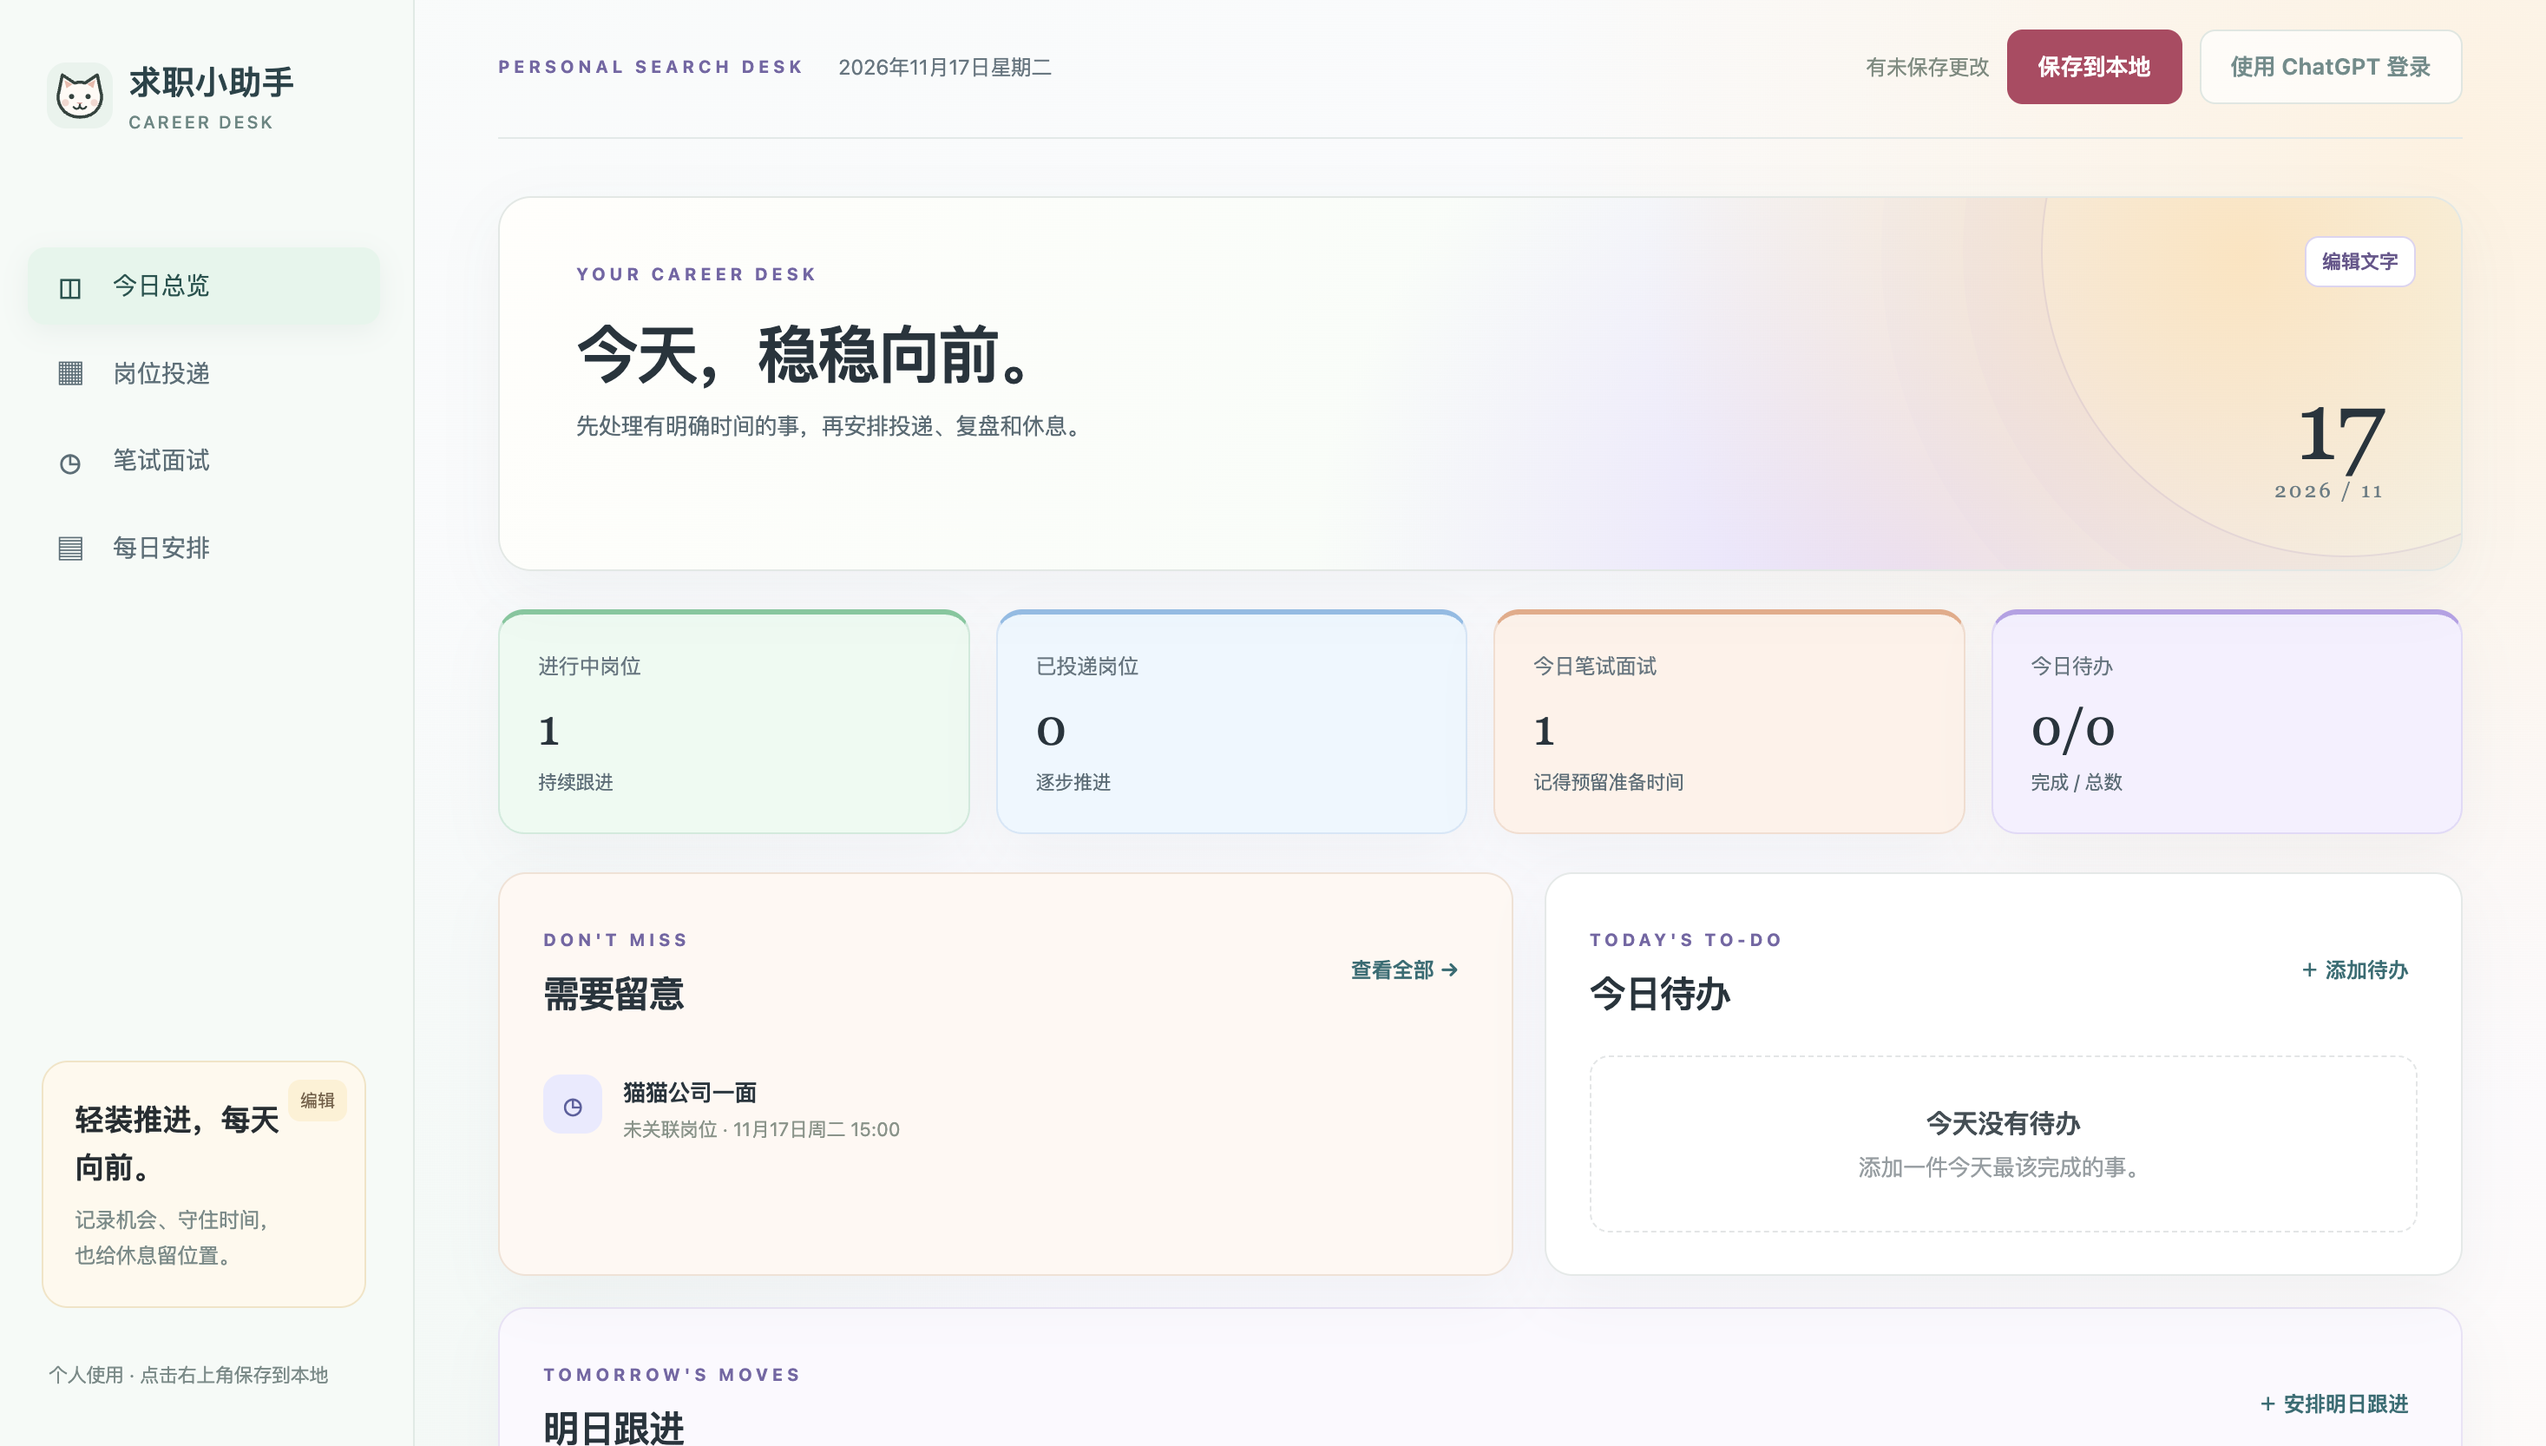
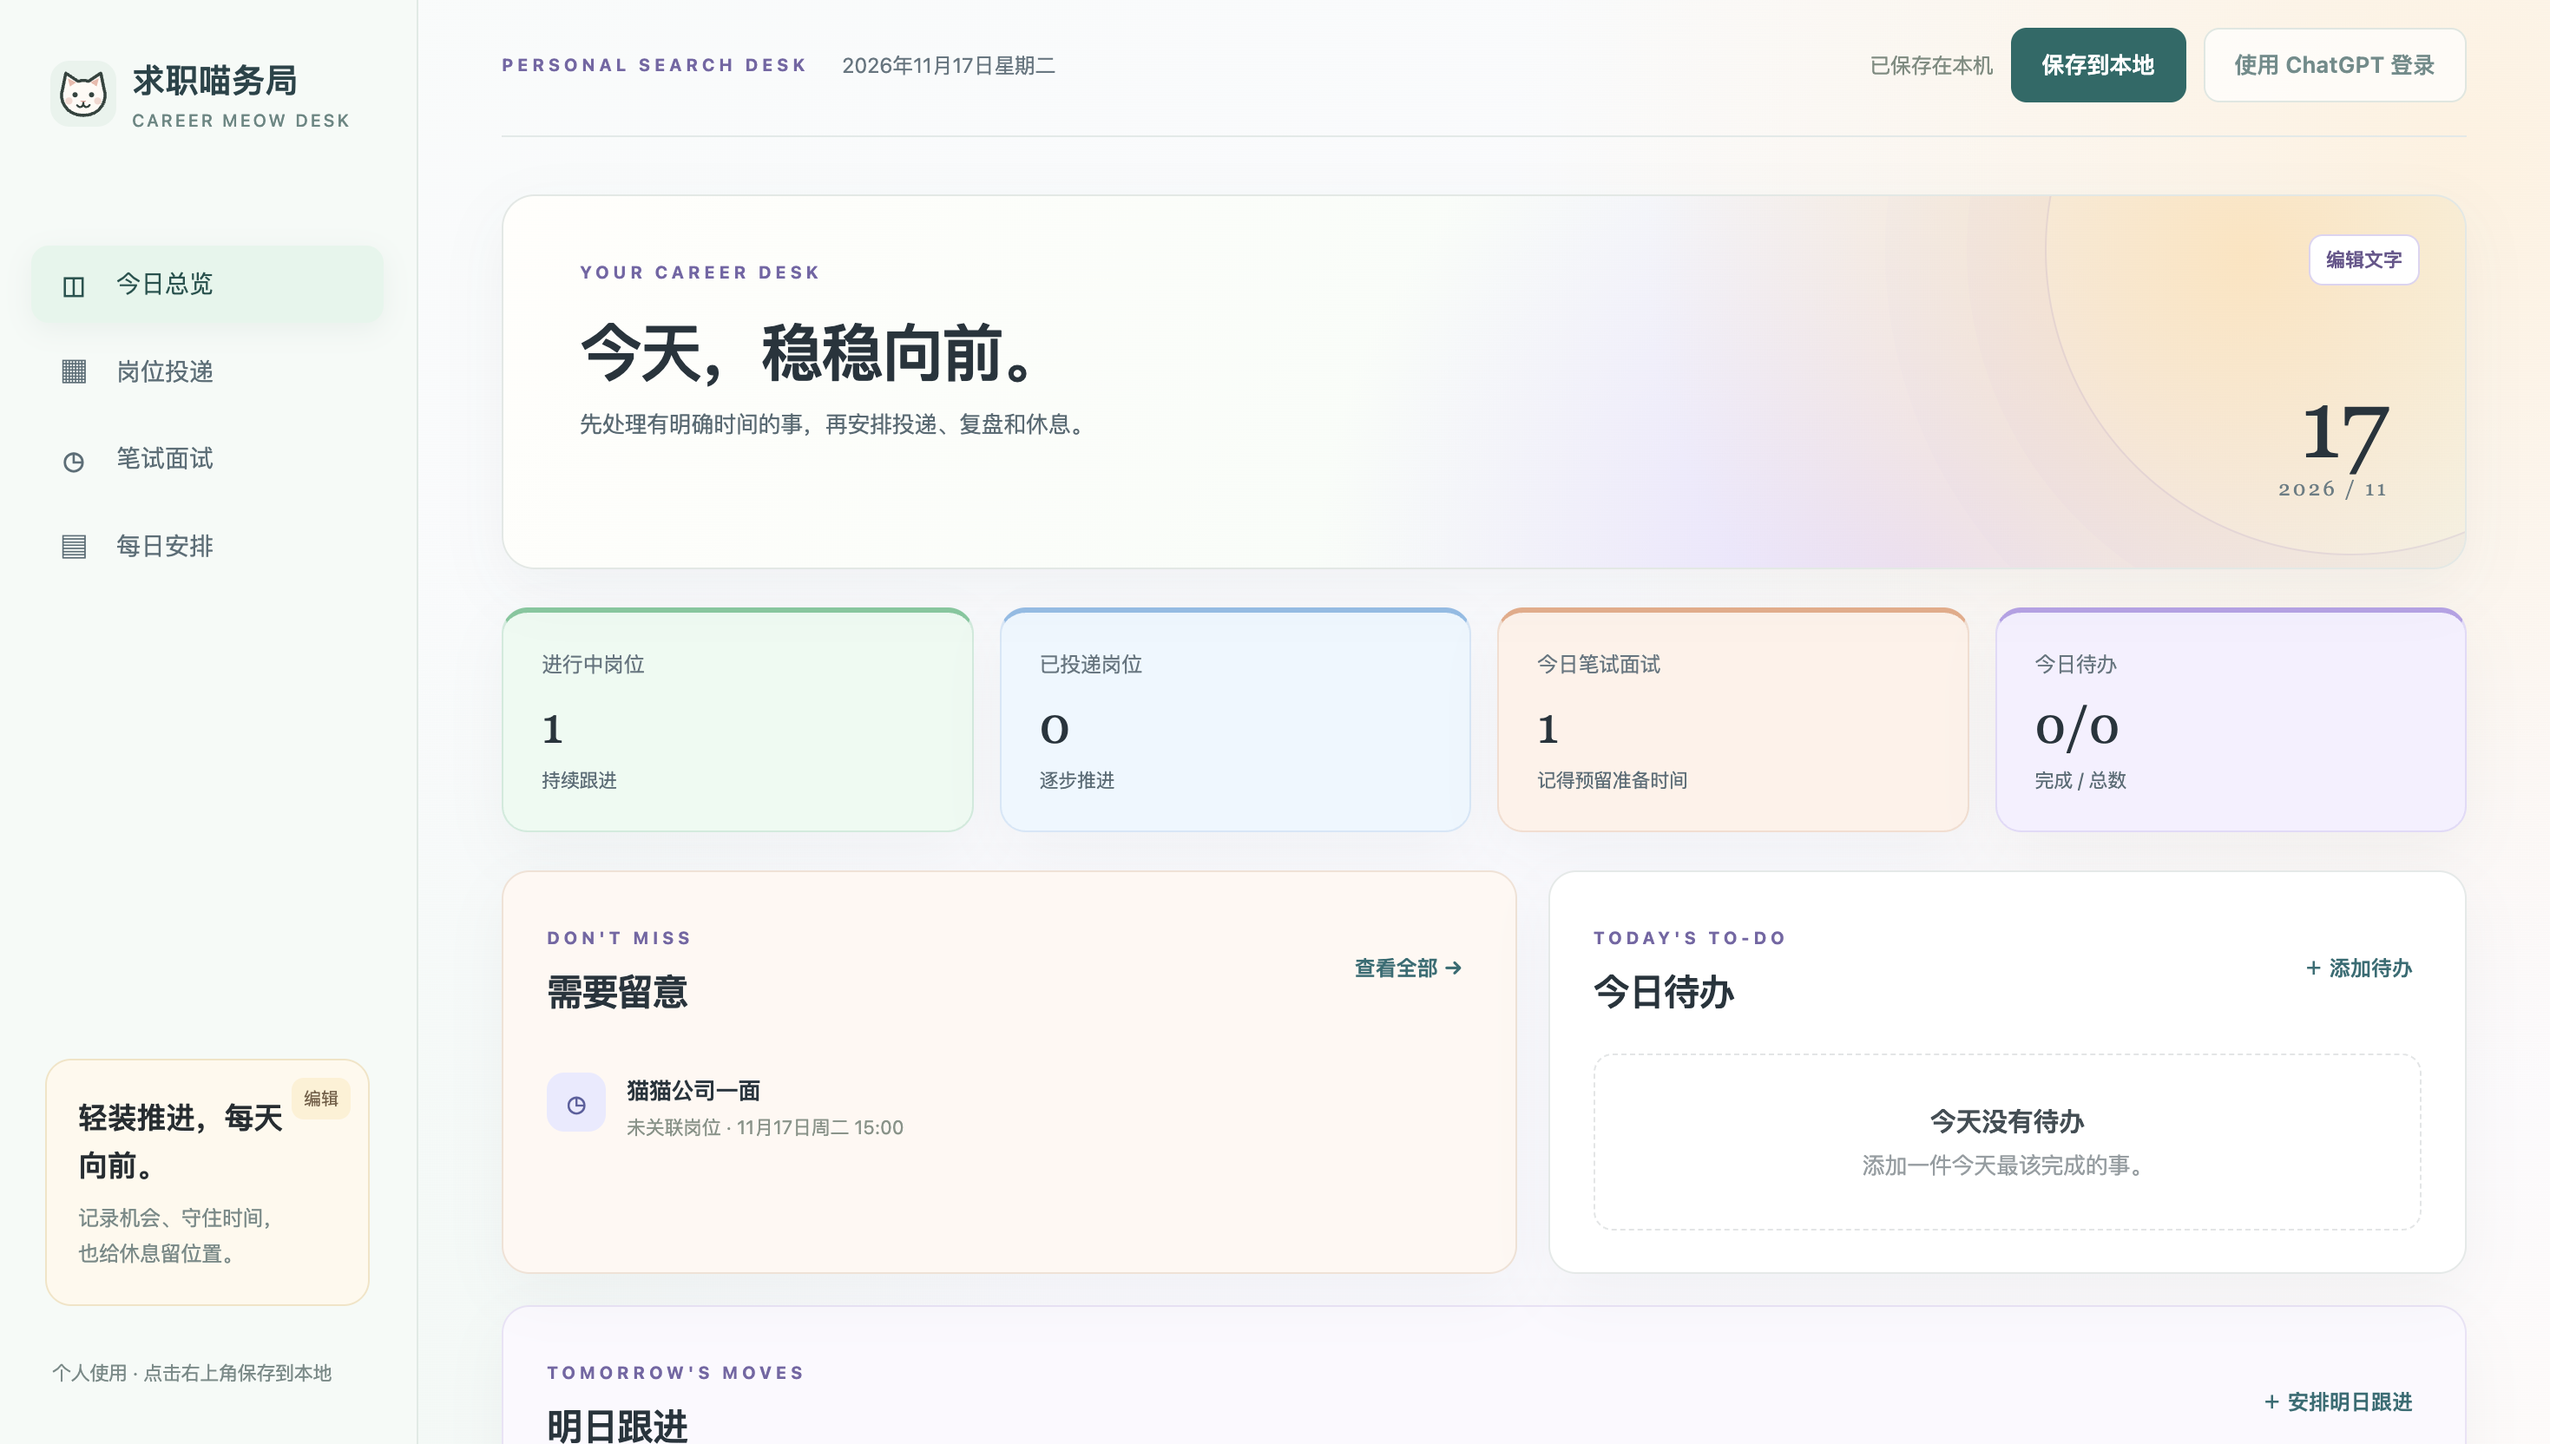
Refresh overview and schedule screenshots

diff --git a/README.md b/README.md
@@ -30,7 +30,11 @@
 
 ![求职喵务局今日总览示例，展示猫猫公司这一虚构面试记录](assets/screenshots/overview.png)
 
-截图使用虚构的“猫猫公司”面试记录，拍摄时页面仍显示旧名称“求职小助手”。每日安排的公开预览图仍待补充；请勿把真实公司、面试链接或个人记录放进截图。
+### 每日安排
+
+![求职喵务局每日安排示例，展示固定面试时间块与一句话安排日程入口](assets/screenshots/schedule.png)
+
+两张截图都使用虚构的“猫猫公司”面试记录，并展示“求职喵务局”新名称。截图中的 AI 服务地址与访问码输入框只有占位文字，没有实际凭证。
 
 ---
 
@@ -114,6 +118,7 @@ Career-meow-desk/
 ├── app.js                 # 页面交互与浏览器本地存储
 ├── plan-text.js           # 本地规则拆分
 ├── favicon.svg            # 网站图标
+├── assets/screenshots/     # 已脱敏的界面预览图
 ├── .nojekyll              # GitHub Pages 直接发布静态文件
 ├── local-app/             # 可选：每人在本机运行的 ChatGPT 服务与说明
 ├── server/                # 可选：自行部署的兼容模型接口与说明
@@ -139,6 +144,5 @@ Career-meow-desk/
 目前按建仓时的选择**不添加许可证**，因此这里没有沿用参考项目的使用限制。如希望明确允许他人复用代码，可以之后再选许可证。其他待补充内容：
 
 - GitHub Pages 部署并验证后，在 README 顶部加入在线体验地址。
-- 补充不含真实求职信息的“每日安排”截图或演示 GIF。
 - 若决定开放代码复用，新增 `LICENSE` 文件后再添加许可证徽章。
 - 完成一次公开网址上的桌面与手机操作检查；若提供 AI 功能，再单独验证真实授权或模型请求。
